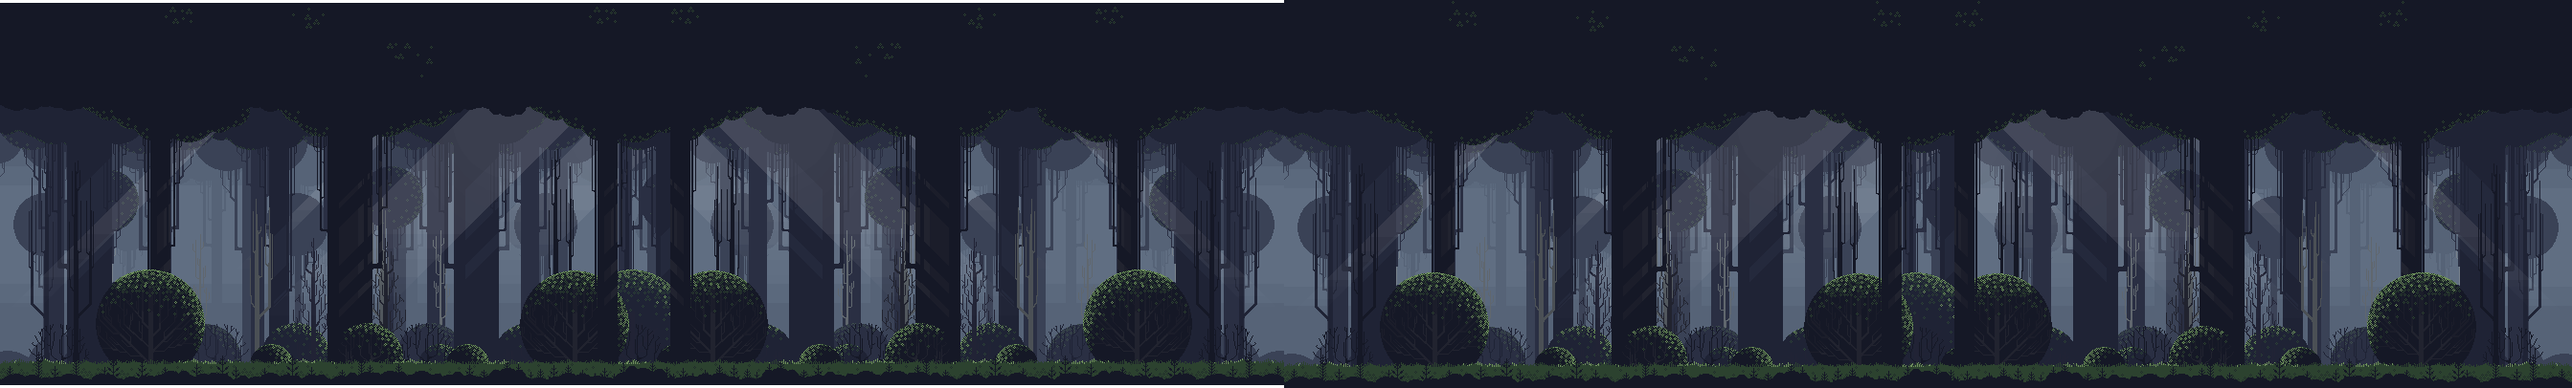
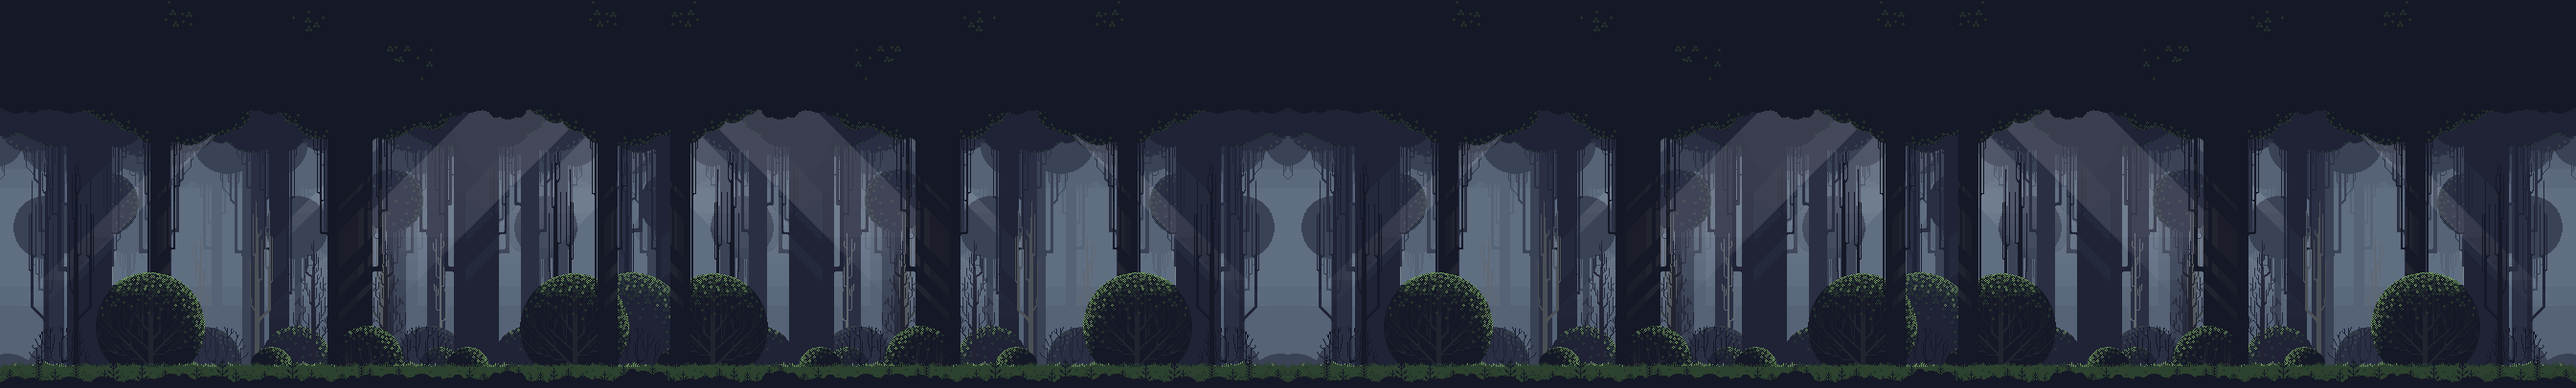
adiciona novos assets e lógica de movimentação de objetos

diff --git a/scenes/scene1.js b/scenes/scene1.js
@@ -1,56 +1,81 @@
 class Scene1 extends Phaser.Scene {
     constructor() {
-      fundo = {
-        image: fundo1,
-        x: 0,
-        y: 0,
-        width: 1280,
-        height: 580,
-        top: 200,
-        x_max: 2686,
-        }
       super({
         key: "scene1",
       })
     }
     preload() {
       this.load.image("background1", "assets/m_merged.png")
+      this.load.image("logCollect", "assets/logCollect.png")
+      this.load.image("background1", "assets/m_merged.png")
       this.load.spritesheet("coin", "assets/coin.png", { frameWidth: 200, frameHeight: 300 })
-      this.load.spritesheet("idle", "assets/idle.png", { frameWidth: 99, frameHeight: 103 })
+      this.load.spritesheet("personagem", "assets/Woodcutter_run.png", { frameWidth: 48, frameHeight: 48 })
   
     }
 
     create() {
-      // Carrega a cena Main Menu
-      this.mainMenu = this.add.image(gameDimensions.width/2, gameDimensions.height/2, "background1").setScale(1.5)
-      this.coin = this.add.sprite(100, 520, "coin").setScale(0.25)
-      
+      // window.alert("Olá, pronto para começar? Clique na tecla de espaço para pular, boa sorte!")
+      this.volta = 0
+      this.mainMenu = this.add.image(-5, -20, "background1").setScale(1.5).setOrigin(0, 0)
+
+      this.coin = this.physics.add.sprite(1200, 500, "coin").setScale(0.2)
+      this.coin.setCollideWorldBounds(true)
+      this.coin.setVelocityX(-300)
+      this.coin.body.setSize(120, 310, true)
       this.anims.create({
         key: "animar",
         frames: this.anims.generateFrameNumbers("coin", { start: 0, end: 5 }),
         frameRate: 6,
         repeat: -1
       })
-      
       this.coin.anims.play("animar", true)
 
-      this.idle = this.add.sprite(50, 520, "idle").setScale(2)
+
+
+      this.personagem = this.physics.add.sprite(50, 510, "personagem").setScale(2.1)
+      this.personagem.setCollideWorldBounds(true)
+      this.personagem.setSize(30, 60, true)
       this.anims.create({
-        key: "idle",
-        frames: this.anims.generateFrameNumbers("idle", { start: 0, end: 3 }),
-        frameRate: 3,
+        key: "running",
+        frames: this.anims.generateFrameNumbers("personagem", { start: 0, end: 3 }),
+        frameRate: 7,
         repeat: -1
       })
-      
-      this.coin.anims.play("idle", true)
+      // if(this.touchingGround === true){
+      this.personagem.anims.play("running", true)
+      // }
+      // //else if (){
+      //   this.personagem.anims.play("jumping", true)
+      // }
 
-      // this.load.image("", "assets/.png")
-      // this.botaoJogar = this.add.image(900, 575, "")
+      this.physics.add.overlap(this.personagem, this.coin, function(){ 
+        // this.coin.setVisible(false);
+        this.positionCoinX = Phaser.Math.RND.between(500, 1200);
+        this.coin.setPosition(this.positionCoinX, 500);
+        // this.coin.setVisible(true)
+      })
+
+      this.logCollect = this.physics.add.sprite(1000, 520, "logCollect").setScale(0.4)
+      this.logCollect.setCollideWorldBounds(true)
+      this.logCollect.setVelocityX(-300 - this.volta)
+      this.logCollect.body.setSize(120, 150, true)
 
     }
     
-  
-    update() {}
+    update() {
+
+      // Deslocamento do fundo
+      if (this.mainMenu.width < 3000) {
+        this.mainMenu.x -= 5 - this.volta;
+        console.log(`Você está na volta ${-this.volta/0.08}`)
+      }
+
+      // Reposicionamento do fundo
+      if (this.mainMenu.x <= -2001.89) {
+        this.mainMenu.x = this.mainMenu.x + 2001.89;
+        this.volta = this.volta - 0.08
+      }
+    }
     
   }
   

diff --git a/index.html b/index.html
@@ -3,7 +3,7 @@
     <head>
         <meta charset="UTF-8">
         <meta name="viewport" content="width=device-width, initial-scale=1.0">
-        <title>Dino Run</title>
+        <title>LumberJack</title>
         <style>
             * {
                 margin: 0;
